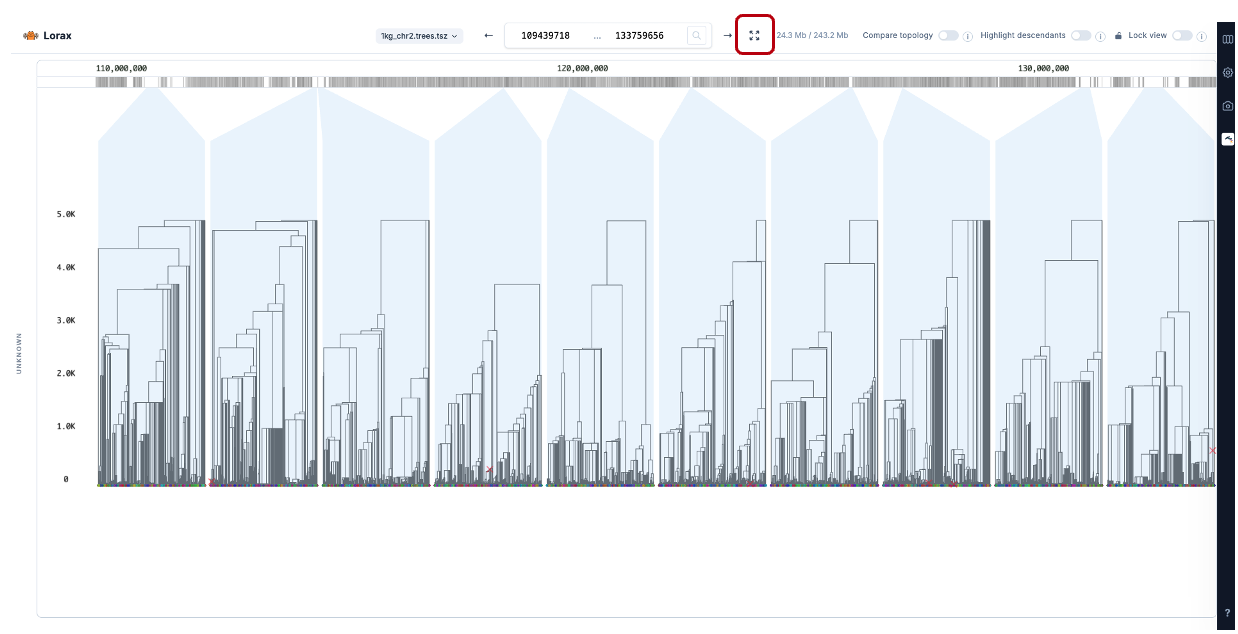
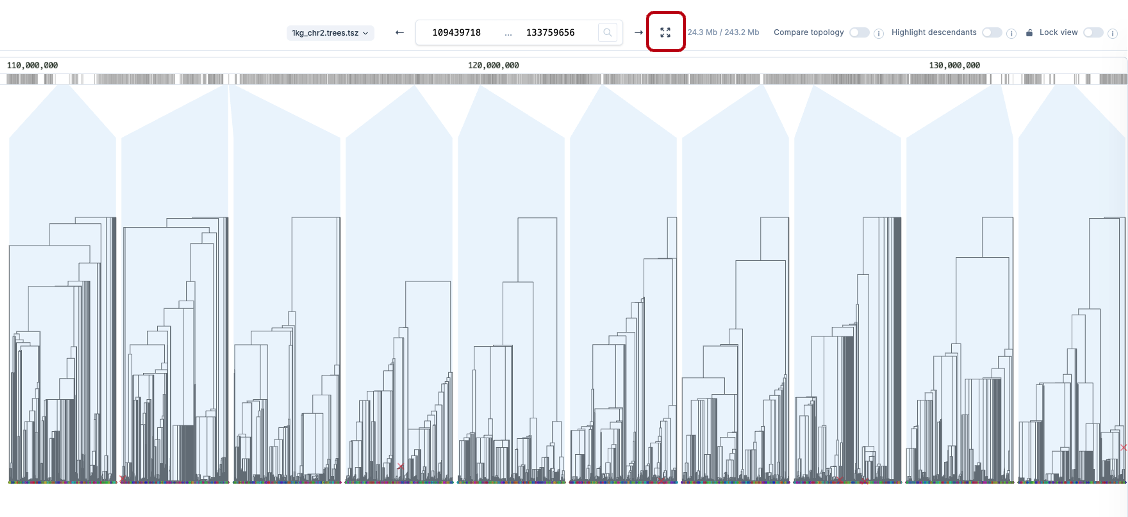
removed usecases

diff --git a/packages/website/src/components/documentation/DocumentationHome.jsx b/packages/website/src/components/documentation/DocumentationHome.jsx
@@ -488,7 +488,7 @@ lorax --file path/to/your.trees`}
             <LoadingNavigationTabs />
           </Section>
 
-          <Section id="usecases" eyebrow="Examples" title="Use cases">
+          {/* <Section id="usecases" eyebrow="Examples" title="Use cases">
             <p className="mb-4 text-sm leading-6 text-slate-600">
               These short write-ups live inside the documentation. Each page explains the biology and dataset, then links into the viewer with the matching feature preset (metadata coloring and genomic focus).
             </p>
@@ -509,7 +509,7 @@ lorax --file path/to/your.trees`}
             <p className="mt-6">
               If you use Lorax in research, cite: <span className="font-medium text-slate-900">Lorax: Interactive visualization of Ancestral Recombination Graphs.</span>
             </p>
-          </Section>
+          </Section> */}
         </div>
       </div>
     </main>

diff --git a/packages/website/src/components/documentation/sections.js b/packages/website/src/components/documentation/sections.js
@@ -3,7 +3,7 @@ import {
   LuFileInput,
   LuPackage,
   LuRoute,
-  LuTarget
+  // LuTarget
 } from "react-icons/lu";
 
 export const documentationSections = [
@@ -11,5 +11,5 @@ export const documentationSections = [
   { id: "install-and-quick-start", label: "Install and Quick Start", icon: LuPackage },
   { id: "key-features", label: "Key Features", icon: LuRoute },
   { id: "loading-data", label: "Loading & Navigation", icon: LuFileInput },
-  { id: "usecases", label: "Use cases", icon: LuTarget }
+  // { id: "usecases", label: "Use cases", icon: LuTarget }
 ];